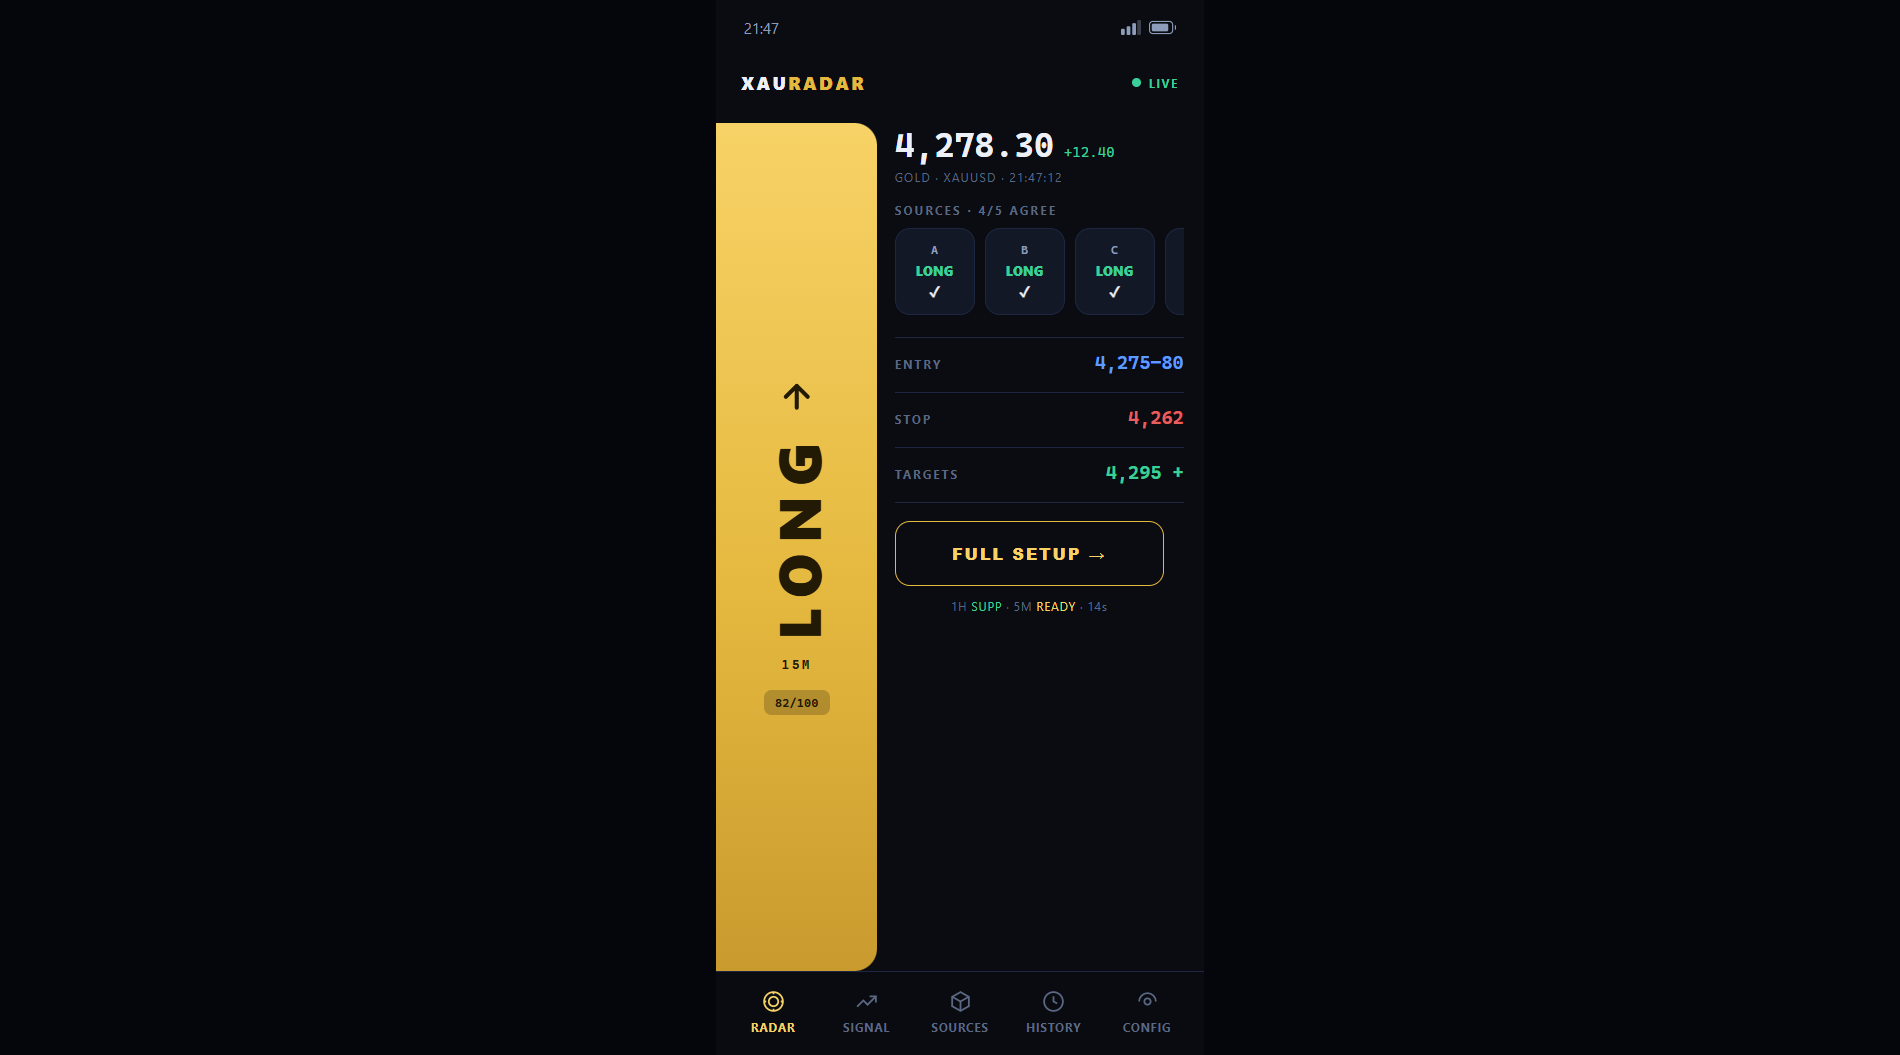
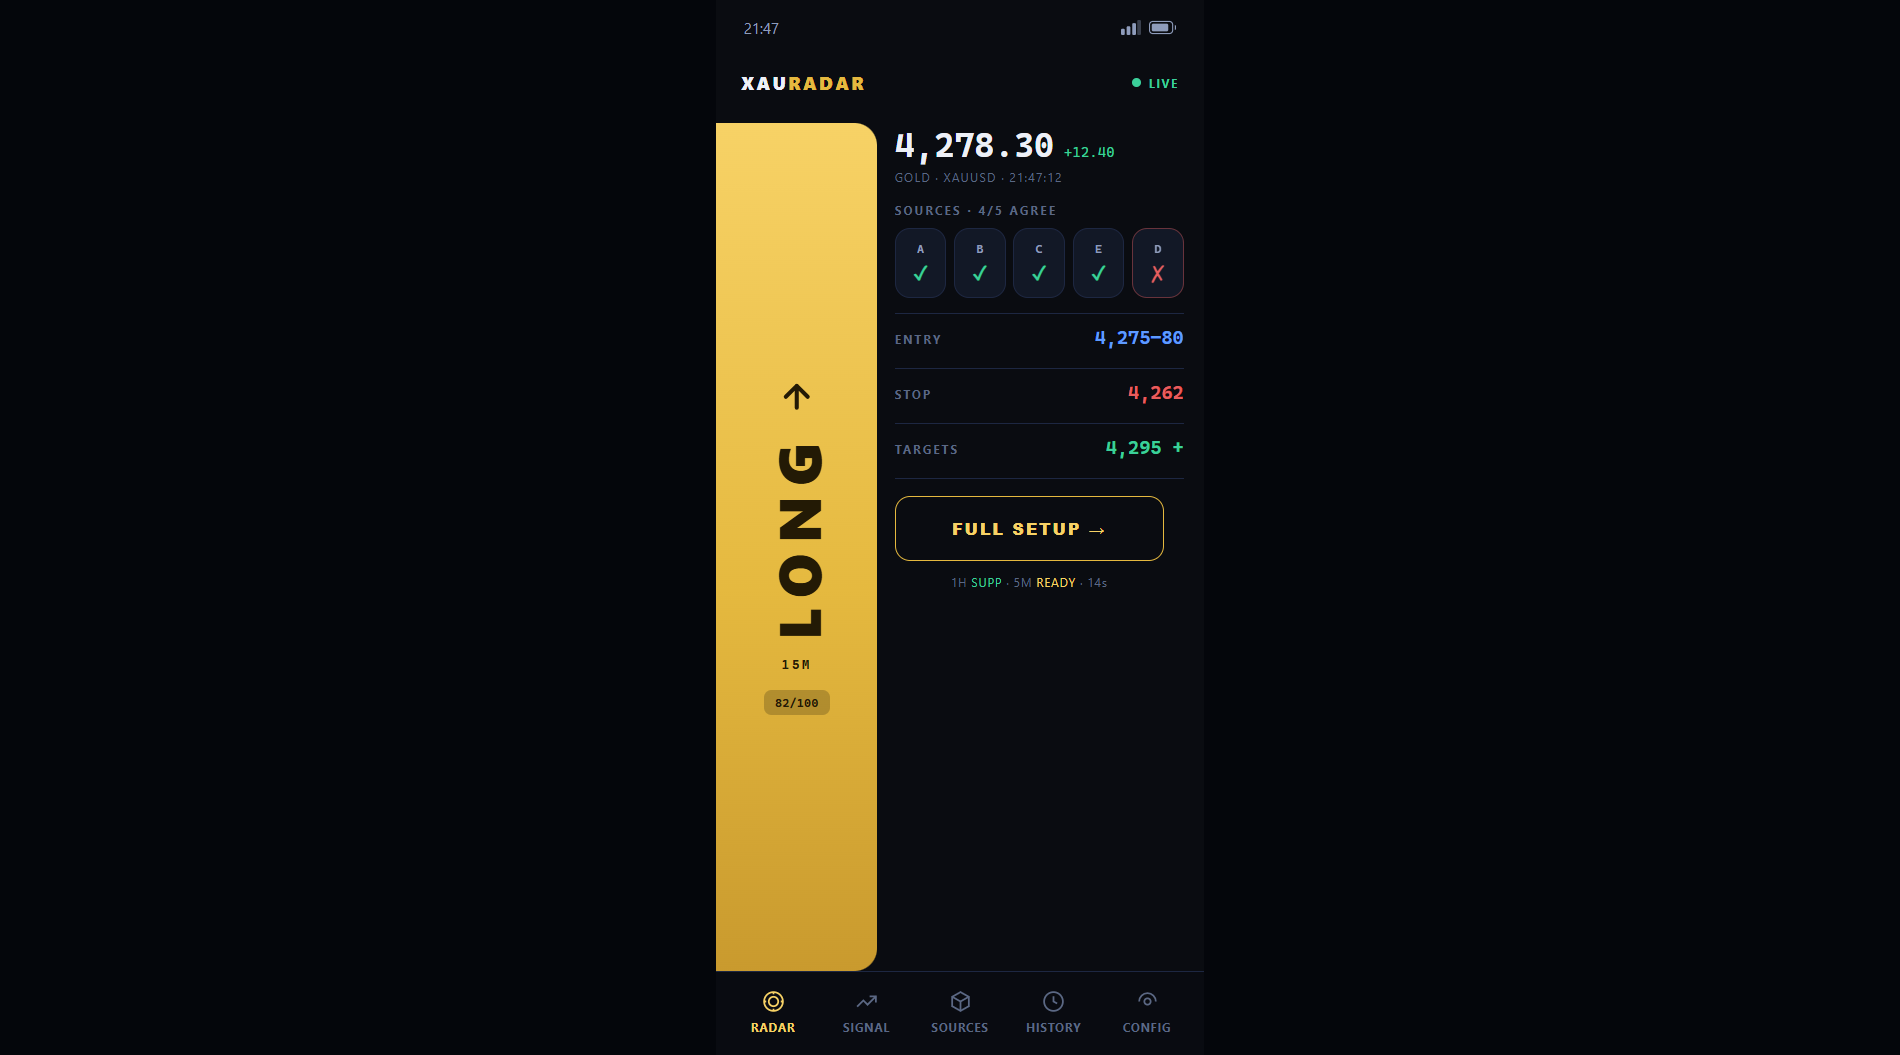
design: fit all 5 source cells in Rail tape so dissenter is visible

Changed region(s): [[0.4658, 0.2123, 0.6211, 0.455], [0.4968, 0.4853, 0.59, 0.5763]]

diff --git a/docs/mockups/mockup-6B-rail.html b/docs/mockups/mockup-6B-rail.html
@@ -68,18 +68,16 @@
   .price .t{font-size:.62rem;color:var(--faint);margin-top:3px;letter-spacing:.08em}
 
   .tape-label{font-size:.58rem;font-weight:700;letter-spacing:.2em;color:var(--faint);margin:14px 0 8px}
-  .tape{display:flex;gap:8px;overflow-x:auto;padding-bottom:6px;scrollbar-width:none}
-  .tape::-webkit-scrollbar{display:none}
+  .tape{display:flex;gap:6px}
   .tcard{
-    flex:0 0 64px;background:var(--card);border:1px solid var(--line);border-radius:12px;
-    padding:10px 4px;text-align:center;
+    flex:1 1 0;background:var(--card);border:1px solid var(--line);border-radius:12px;
+    padding:9px 2px;text-align:center;min-width:0;
     animation:slidein .5s cubic-bezier(.2,.9,.3,1) both;
   }
   .tcard .l{font-family:var(--mono);font-size:.62rem;font-weight:700;color:var(--dim)}
-  .tcard .d{font-size:.66rem;font-weight:800;margin-top:4px}
-  .tcard .m{font-size:.72rem;font-weight:700;margin-top:2px}
-  .tcard.yes .d{color:var(--long)}
-  .tcard.no .d{color:var(--short)}
+  .tcard .m{font-size:.95rem;font-weight:700;margin-top:3px}
+  .tcard.yes .m{color:var(--long)}
+  .tcard.no .m{color:var(--short)}
   .tcard.no{border-color:rgba(232,93,93,.4)}
   @keyframes slidein{from{transform:translateX(22px);opacity:0}to{transform:none;opacity:1}}
   @media (prefers-reduced-motion:reduce){.tcard{animation:none}}
@@ -140,12 +138,12 @@
       </div>
 
       <div class="tape-label">SOURCES · 4/5 AGREE</div>
-      <div class="tape">
-        <div class="tcard yes" style="animation-delay:.05s"><div class="l">A</div><div class="d">LONG</div><div class="m">✓</div></div>
-        <div class="tcard yes" style="animation-delay:.12s"><div class="l">B</div><div class="d">LONG</div><div class="m">✓</div></div>
-        <div class="tcard yes" style="animation-delay:.19s"><div class="l">C</div><div class="d">LONG</div><div class="m">✓</div></div>
-        <div class="tcard yes" style="animation-delay:.26s"><div class="l">E</div><div class="d">LONG</div><div class="m">✓</div></div>
-        <div class="tcard no" style="animation-delay:.33s"><div class="l">D</div><div class="d">SHORT</div><div class="m">✗</div></div>
+      <div class="tape" role="img" aria-label="Sources A, B, C and E agree LONG; source D disagrees SHORT">
+        <div class="tcard yes" style="animation-delay:.05s"><div class="l">A</div><div class="m">✓</div></div>
+        <div class="tcard yes" style="animation-delay:.12s"><div class="l">B</div><div class="m">✓</div></div>
+        <div class="tcard yes" style="animation-delay:.19s"><div class="l">C</div><div class="m">✓</div></div>
+        <div class="tcard yes" style="animation-delay:.26s"><div class="l">E</div><div class="m">✓</div></div>
+        <div class="tcard no" style="animation-delay:.33s"><div class="l">D</div><div class="m">✗</div></div>
       </div>
 
       <div class="nums">
